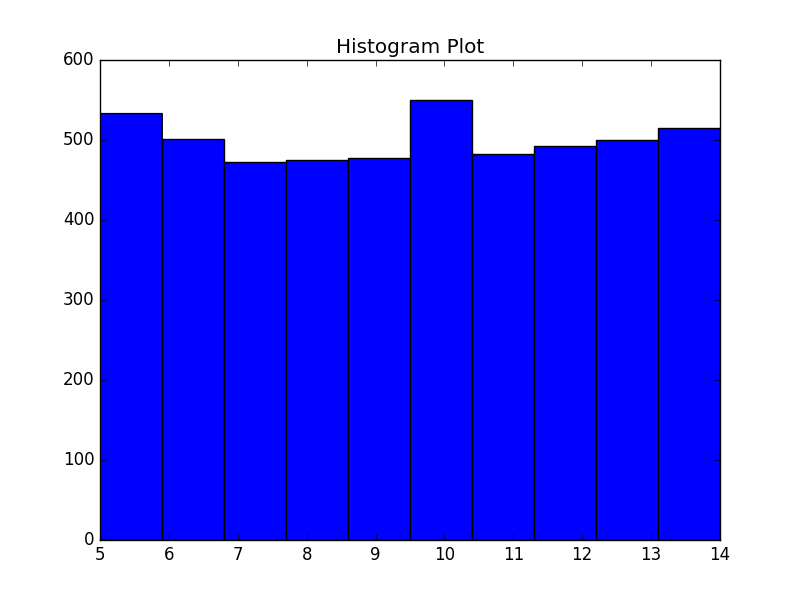
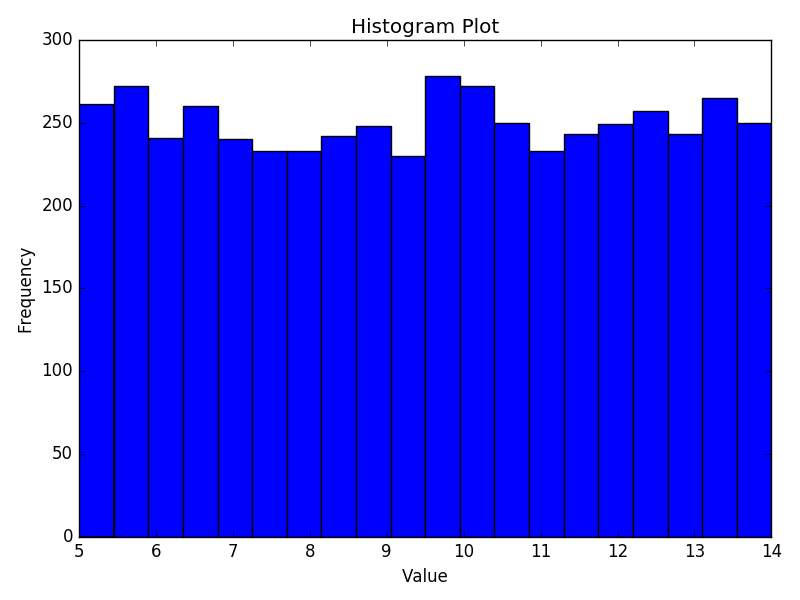
update-q1

Changed region(s): [[0.0312, 0.03, 1.0, 0.99]]

diff --git a/ass1.py b/ass1.py
@@ -15,27 +15,37 @@ def histogram_plot(x, nbins):
   print("Generating histogram plot...")
   plt.hist(x, nbins)
   plt.title("Histogram Plot")
+  plt.xlabel("Value")
+  plt.ylabel("Frequency")
+  plt.tight_layout()
   plt.savefig("histogram.png")
-  plt.close()
+  plt.close()  
   print("Done\n")
 
-def bar_plot(x):
+def bar_plot(x,nbins):
   print("Generating bar plot...")
-  freq = [1]*len(x)
-  for idx in range(0,len(x)):
-    freq[idx]=idx
-  x = np.sort(x)
-  plt.bar(freq, x)
+  plt.hist(x, nbins, histtype='bar', rwidth=0.4)
   plt.title("Bar Plot")
-  plt.savefig("bar.png")
+  plt.ylabel("Frequency")
+
+  hist, bins = np.histogram(x, nbins)
+  bins = bins + ((bins[1]-bins[0])/2)
+  labels = ['']*nbins
+  for idx in range(0, nbins):
+    labels[idx] = '{:.2f}-{:.2f}'.format(bins[idx], bins[idx+1])
+
+  plt.xticks(bins, labels, rotation=45)
+  plt.tight_layout()
+  plt.savefig("bar_plot.png")
   plt.close()
   print("Done\n")
 
 def box_plot(x):
   print("Generating box plot...")
   plt.boxplot(x)
-  plt.savefig("box.png")
   plt.title("Box Plot")
+  plt.ylabel("Value")
+  plt.savefig("box.png")
   plt.close()
   print("Done\n")
 
@@ -46,10 +56,11 @@ def measures(x):
   print("Coefficient of variation : {}".format(st.variation(x)))
   print("Coefficient of skewness  : {}".format(st.skew(x)))
   print("Coefficient of kurtosis  : {}".format(st.kurtosis(x)))
-  print("Inter-quartile range     : {}".format(q75 - q25))   
+  print("Inter-quartile range     : {}".format(q75 - q25))
+  print("\n")
 
-frequency_table(data, 10)
-histogram_plot(data, 10)
-bar_plot(data)
+frequency_table(data, 20)
+histogram_plot(data, 20)
+bar_plot(data,20)
 box_plot(data)
 measures(data)
